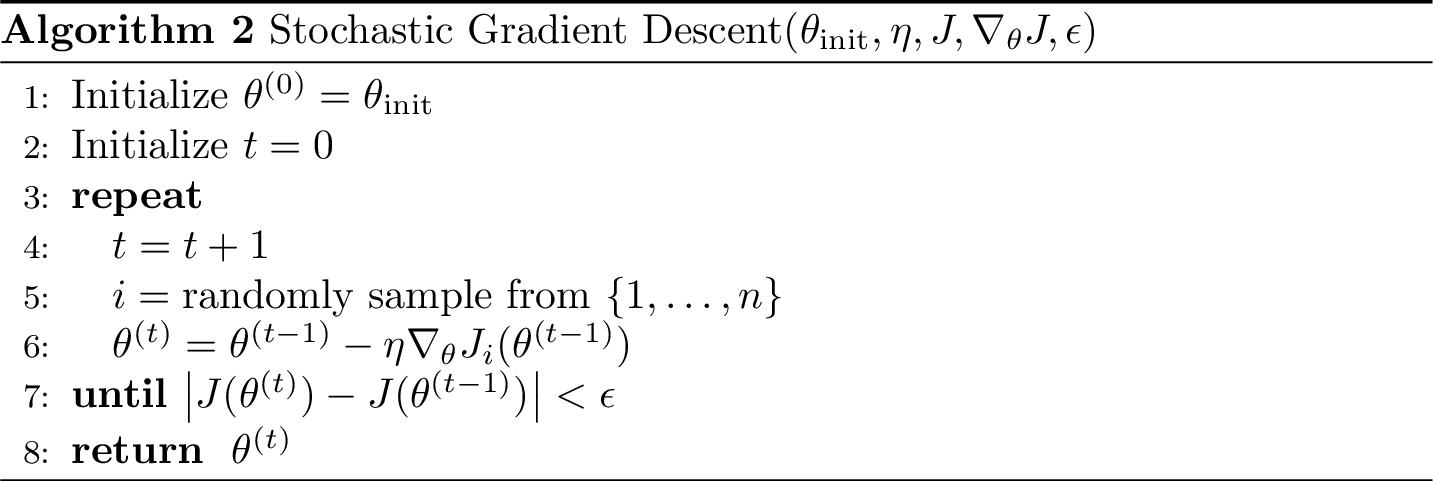
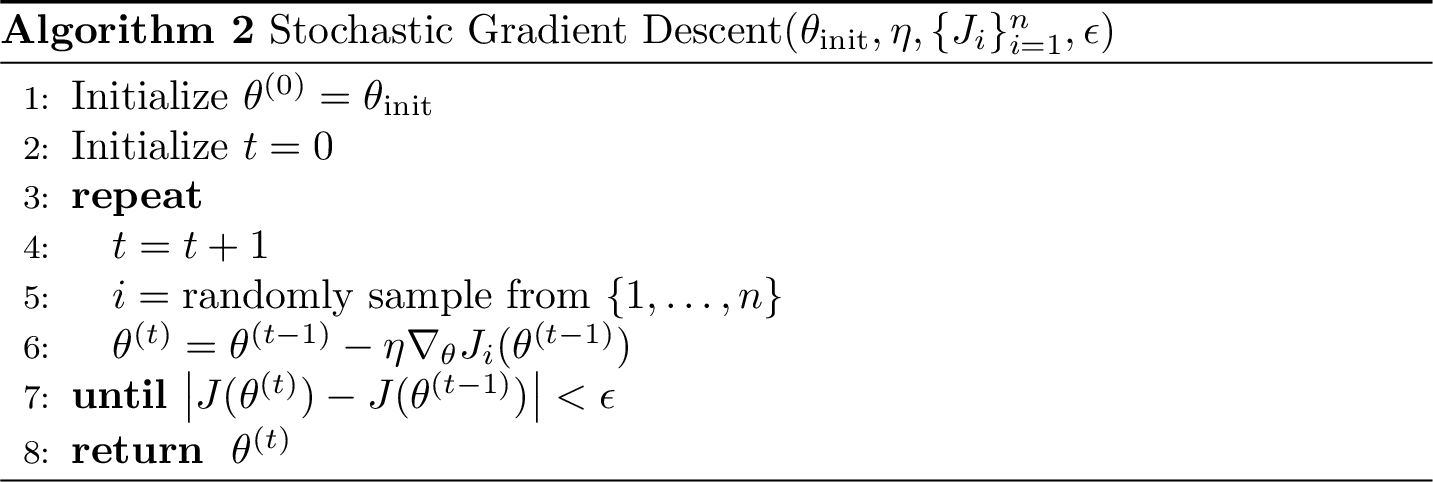
gd demos update

diff --git a/gd/3pt-2d-contour-J123.tex b/gd/3pt-2d-contour-J123.tex
@@ -1,0 +1,66 @@
+\documentclass[tikz]{standalone}
+\usepackage{pgfplots}
+\usepackage{xcolor}
+\usepgfplotslibrary{patchplots}
+\definecolor{gray}{HTML}{888888}
+\definecolor{brown}{HTML}{8a4e3d}
+\definecolor{blue}{HTML}{6d9eeb}
+\pgfplotsset{compat=1.18}
+
+\begin{document}
+\begin{tikzpicture}
+  \begin{axis}[
+    view={0}{90},
+    xlabel={\(\theta_1\)},
+    ylabel={\(\theta_2\)},
+    xmin=-0.75, xmax=1.5,
+    ymin=0, ymax=2.5,
+    xtick={-0.5,0,0.5,1,1.5},
+    ytick={0,0.5,1,1.5,2,2.5},
+    minor x tick num=1,
+    minor y tick num=1,
+    grid=both,
+    major grid style={line width=0.2pt,draw=black},
+    minor grid style={line width=0.1pt,draw=gray!50,dashed},
+    width=9cm,
+    height=10cm,
+    scale only axis,
+    axis lines=left,
+    x axis line style={->,>=stealth, shorten >=-3pt},
+    y axis line style={->,>=stealth, shorten >=-3pt},
+  ]
+    % J₁ = (3-θ₁-2θ₂)²  — brown
+    \addplot3[
+      contour gnuplot={
+        levels={0.1, 0.25, 0.5, 1, 2, 4, 8, 16},
+        draw color=brown,
+        labels=false,
+      },
+      domain=-0.75:1.5, domain y=0:2.5,
+      samples=120,
+    ] {(3-x-2*y)^2};
+
+    % J₂ = (2-2θ₁-θ₂)²  — blue
+    \addplot3[
+      contour gnuplot={
+        levels={0.1, 0.25, 0.5, 1, 2, 4, 8, 16},
+        draw color=blue,
+        labels=false,
+      },
+      domain=-0.75:1.5, domain y=0:2.5,
+      samples=120,
+    ] {(2-2*x-y)^2};
+
+    % J₃ = (6-3θ₁-4θ₂)²  — gray
+    \addplot3[
+      contour gnuplot={
+        levels={0.1, 0.25, 0.5, 1, 2, 4, 8, 16},
+        draw color=gray,
+        labels=false,
+      },
+      domain=-0.75:1.5, domain y=0:2.5,
+      samples=120,
+    ] {(6-3*x-4*y)^2};
+  \end{axis}
+\end{tikzpicture}
+\end{document}

diff --git a/gd/3pt-overlay-curves-bare.tex b/gd/3pt-overlay-curves-bare.tex
@@ -1,0 +1,48 @@
+\documentclass[tikz]{standalone}
+\usepackage{pgfplots}
+\usepackage{xcolor}
+\usetikzlibrary{calc}
+\definecolor{brown}{HTML}{8a4e3d}
+\definecolor{blue}{HTML}{6d9eeb}
+\definecolor{gray}{HTML}{888888}
+\pgfplotsset{compat=1.18}
+
+\begin{document}
+\begin{tikzpicture}
+  \begin{axis}[
+    axis lines=left,
+    x axis line style={->,>=stealth, shorten >=-3pt},
+    y axis line style={->,>=stealth, shorten >=-3pt},
+    xlabel={\(\theta\)},
+    ylabel={\(J_i(\theta)\)},
+    ylabel style={rotate=-90},
+    xmin=0, xmax=4,
+    ymin=0, ymax=25,
+    xtick={0,1,...,4},
+    ytick={0,5,...,25},
+    minor x tick num=1,
+    minor y tick num=1,
+    grid=both,
+    major grid style={line width=0.2pt,draw=black},
+    minor grid style={line width=0.1pt,draw=gray!50,dashed},
+    width=10cm,
+    height=10cm,
+  ]
+    % J1(θ) = (2θ-5)^2
+    \addplot[domain=0:4, samples=200, ultra thick, color=brown]
+      {(2*x-5)^2};
+
+    % J2(θ) = (3θ-6)^2
+    \addplot[domain=0:4, samples=200, ultra thick, color=blue]
+      {(3*x-6)^2};
+
+    % J3(θ) = (4θ-7)^2
+    \addplot[domain=0:4, samples=200, ultra thick, color=gray]
+      {(4*x-7)^2};
+
+  \end{axis}
+  \pgfresetboundingbox
+  \useasboundingbox ([xshift=-19mm, yshift=-11mm]current axis.south west)
+    rectangle ([xshift=4mm, yshift=4mm]current axis.north east);
+\end{tikzpicture}
+\end{document}

diff --git a/gd/gd-alg.tex b/gd/gd-alg.tex
@@ -10,7 +10,7 @@
 % Full-batch Gradient Descent
 % ---------------------------
 \begin{algorithm*}
-\caption{Gradient Descent($\theta_{\text{init}}, \eta, J, \nabla_\theta J, \epsilon$)}
+\caption{Gradient Descent($\theta_{\text{init}}, \eta, J, \epsilon$)}
 \label{alg:gradient-descent}
 \begin{algorithmic}[1]
 \STATE Initialize $\theta^{(0)} = \theta_{\text{init}}$
@@ -29,7 +29,7 @@
 % Stochastic Gradient Descent
 % ---------------------------
 \begin{algorithm*}
-\caption{Stochastic Gradient Descent($\theta_{\text{init}}, \eta, J, \nabla_\theta J, \epsilon$)}
+\caption{Stochastic Gradient Descent($\theta_{\text{init}}, \eta, \{J_i\}_{i=1}^n, \epsilon$)}
 \label{alg:stochastic-gradient-descent}
 \begin{algorithmic}[1]
 \STATE Initialize $\theta^{(0)} = \theta_{\text{init}}$
@@ -49,7 +49,7 @@
 % Mini-batch Gradient Descent
 % ---------------------------
 \begin{algorithm*}
-\caption{Mini-batch Gradient Descent($\theta_{\text{init}}, \eta, b, J, \nabla_\theta J, \epsilon$)}
+\caption{Mini-batch Gradient Descent($\theta_{\text{init}}, \eta, b, \{J_i\}_{i=1}^n, \epsilon$)}
 \label{alg:mini-batch-gradient-descent}
 \begin{algorithmic}[1]
 \STATE Initialize $\theta^{(0)} = \theta_{\text{init}}$

diff --git a/gd/3pt-2d-contour-J1.tex b/gd/3pt-2d-contour-J1.tex
@@ -1,0 +1,44 @@
+\documentclass[tikz]{standalone}
+\usepackage{pgfplots}
+\usepackage{xcolor}
+\usepgfplotslibrary{patchplots}
+\definecolor{gray}{HTML}{888888}
+\definecolor{brown}{HTML}{8a4e3d}
+\pgfplotsset{compat=1.18}
+
+\begin{document}
+\begin{tikzpicture}
+  \begin{axis}[
+    view={0}{90},
+    xlabel={\(\theta_1\)},
+    ylabel={\(\theta_2\)},
+    xmin=-0.75, xmax=1.5,
+    ymin=0, ymax=2.5,
+    xtick={-0.5,0,0.5,1,1.5},
+    ytick={0,0.5,1,1.5,2,2.5},
+    minor x tick num=1,
+    minor y tick num=1,
+    grid=both,
+    major grid style={line width=0.2pt,draw=black},
+    minor grid style={line width=0.1pt,draw=gray!50,dashed},
+    width=9cm,
+    height=10cm,
+    scale only axis,
+    axis lines=left,
+    x axis line style={->,>=stealth, shorten >=-3pt},
+    y axis line style={->,>=stealth, shorten >=-3pt},
+  ]
+    % J₁ = (3-θ₁-2θ₂)²
+    % Zero line: θ₁+2θ₂=3
+    \addplot3[
+      contour gnuplot={
+        levels={0.1, 0.25, 0.5, 1, 2, 4, 8, 16},
+        draw color=brown!80!black,
+        labels=false,
+      },
+      domain=-0.75:1.5, domain y=0:2.5,
+      samples=120,
+    ] {(3-x-2*y)^2};
+  \end{axis}
+\end{tikzpicture}
+\end{document}

diff --git a/gd/3pt-2d-contour-J2.tex b/gd/3pt-2d-contour-J2.tex
@@ -1,0 +1,44 @@
+\documentclass[tikz]{standalone}
+\usepackage{pgfplots}
+\usepackage{xcolor}
+\usepgfplotslibrary{patchplots}
+\definecolor{gray}{HTML}{888888}
+\definecolor{blue}{HTML}{6d9eeb}
+\pgfplotsset{compat=1.18}
+
+\begin{document}
+\begin{tikzpicture}
+  \begin{axis}[
+    view={0}{90},
+    xlabel={\(\theta_1\)},
+    ylabel={\(\theta_2\)},
+    xmin=-0.75, xmax=1.5,
+    ymin=0, ymax=2.5,
+    xtick={-0.5,0,0.5,1,1.5},
+    ytick={0,0.5,1,1.5,2,2.5},
+    minor x tick num=1,
+    minor y tick num=1,
+    grid=both,
+    major grid style={line width=0.2pt,draw=black},
+    minor grid style={line width=0.1pt,draw=gray!50,dashed},
+    width=9cm,
+    height=10cm,
+    scale only axis,
+    axis lines=left,
+    x axis line style={->,>=stealth, shorten >=-3pt},
+    y axis line style={->,>=stealth, shorten >=-3pt},
+  ]
+    % J₂ = (2-2θ₁-θ₂)²
+    % Zero line: 2θ₁+θ₂=2
+    \addplot3[
+      contour gnuplot={
+        levels={0.1, 0.25, 0.5, 1, 2, 4, 8, 16},
+        draw color=blue!80!black,
+        labels=false,
+      },
+      domain=-0.75:1.5, domain y=0:2.5,
+      samples=120,
+    ] {(2-2*x-y)^2};
+  \end{axis}
+\end{tikzpicture}
+\end{document}

diff --git a/gd/3pt-2d-contour-J3.tex b/gd/3pt-2d-contour-J3.tex
@@ -1,0 +1,43 @@
+\documentclass[tikz]{standalone}
+\usepackage{pgfplots}
+\usepackage{xcolor}
+\usepgfplotslibrary{patchplots}
+\definecolor{gray}{HTML}{888888}
+\pgfplotsset{compat=1.18}
+
+\begin{document}
+\begin{tikzpicture}
+  \begin{axis}[
+    view={0}{90},
+    xlabel={\(\theta_1\)},
+    ylabel={\(\theta_2\)},
+    xmin=-0.75, xmax=1.5,
+    ymin=0, ymax=2.5,
+    xtick={-0.5,0,0.5,1,1.5},
+    ytick={0,0.5,1,1.5,2,2.5},
+    minor x tick num=1,
+    minor y tick num=1,
+    grid=both,
+    major grid style={line width=0.2pt,draw=black},
+    minor grid style={line width=0.1pt,draw=gray!50,dashed},
+    width=9cm,
+    height=10cm,
+    scale only axis,
+    axis lines=left,
+    x axis line style={->,>=stealth, shorten >=-3pt},
+    y axis line style={->,>=stealth, shorten >=-3pt},
+  ]
+    % J₃ = (6-3θ₁-4θ₂)²
+    % Zero line: 3θ₁+4θ₂=6
+    \addplot3[
+      contour gnuplot={
+        levels={0.1, 0.25, 0.5, 1, 2, 4, 8, 16},
+        draw color=gray!80!black,
+        labels=false,
+      },
+      domain=-0.75:1.5, domain y=0:2.5,
+      samples=120,
+    ] {(6-3*x-4*y)^2};
+  \end{axis}
+\end{tikzpicture}
+\end{document}
